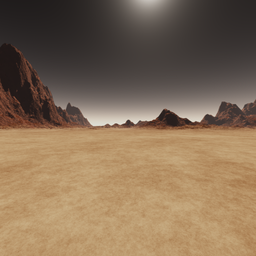
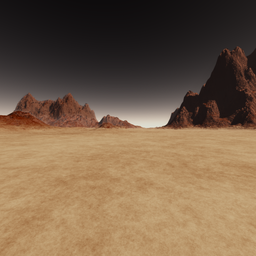
Fix skybox inconsistencies

diff --git a/gra/learning/src/SkyboxTexture.cpp b/gra/learning/src/SkyboxTexture.cpp
@@ -36,20 +36,13 @@ GLuint SkyboxTexture::load_cubemap(const char *files[6])
 void SkyboxTexture::load()
 {
   const char *files[6] = {
-      "arrakisday_rt.png",
+      "arrakisday_bk.png",
       "arrakisday_lf.png",
       "arrakisday_up.png",
       "arrakisday_dn.png",
       "arrakisday_ft.png",
-      "arrakisday_bk.png",
+      "arrakisday_rt.png",
   };
-  // const char *files[6] = {
-  //     "right.png",
-  //     "left.png",
-  //     "top.png",
-  //     "bottom.png",
-  //     "front.png",
-  //     "back.png",
-  // };
+
   this->id = load_cubemap(files);
 }
